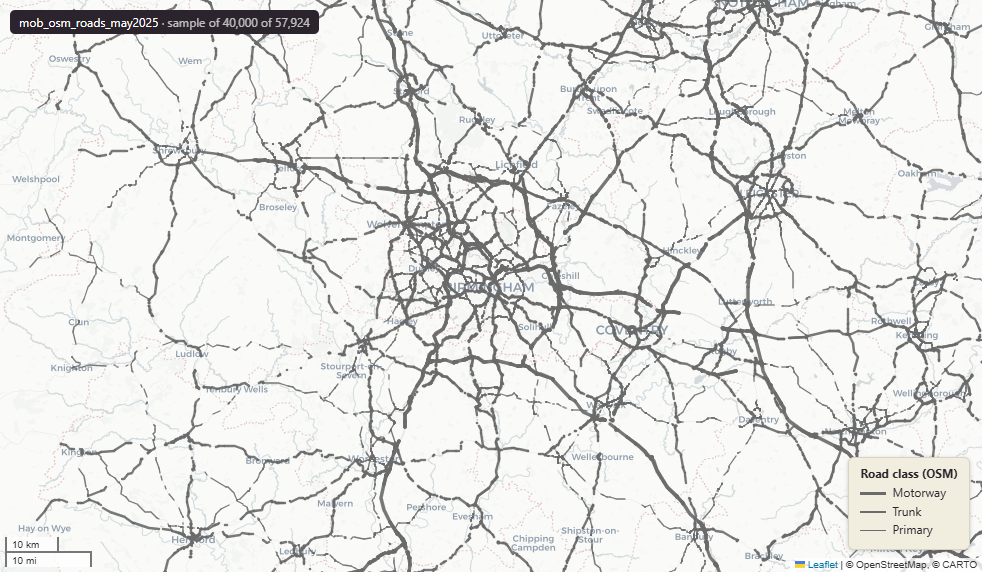
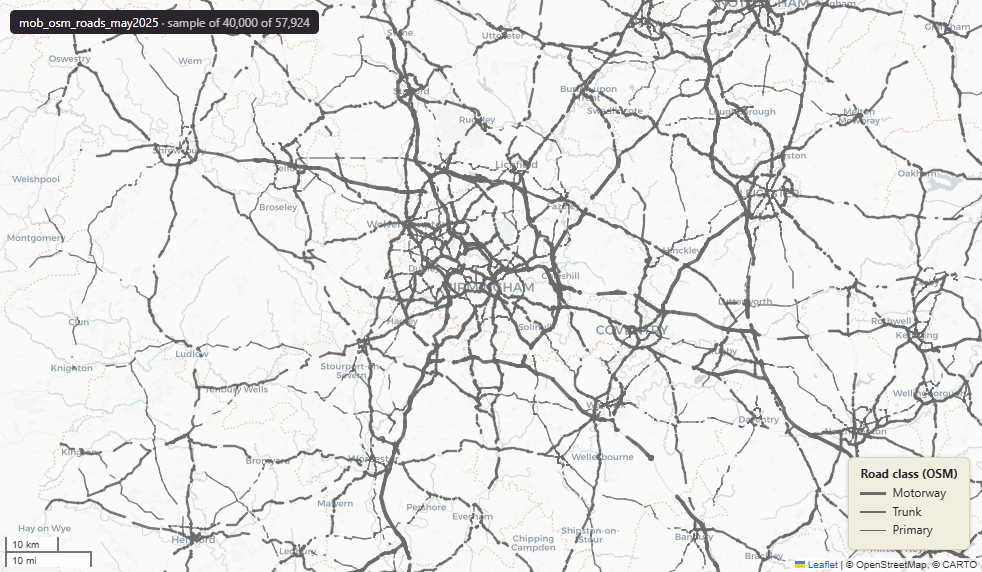
Deployed 51ef6e0 with MkDocs version: 1.6.1

diff --git a/UTL/utl_defra_permitted_waste_authorised_landfill/index.html b/UTL/utl_defra_permitted_waste_authorised_landfill/index.html
@@ -5222,6 +5222,7 @@
 
 <h1 id="defra-department-for-environment-food-and-rural-affairs-environment-agency-permitted-waste-sites-authorised-landfill-site-boundaries-england">Defra - Department for Environment, Food and Rural Affairs — Environment Agency Permitted Waste Sites, Authorised Landfill Site Boundaries (England)<a class="headerlink" href="#defra-department-for-environment-food-and-rural-affairs-environment-agency-permitted-waste-sites-authorised-landfill-site-boundaries-england" title="Permanent link">&para;</a></h1>
 <p><code>utl_defra_permitted_waste_authorised_landfill</code></p>
+<p><img src="../../maps/utl_defra_permitted_waste_authorised_landfill.png" alt="Styling preview of utl_defra_permitted_waste_authorised_landfill" loading="lazy" style="width:100%;border:1px solid #d9d3c4;border-radius:8px;margin:6px 0 4px;"></p>
 <p><a href="http://localhost:7800/?layer=uk_baseline.utl_defra_permitted_waste_authorised_landfill" target="_blank" rel="noopener">Open in the Dashboard &#8599;</a> <span style="opacity:.6;font-size:.85em;">(start your local Dashboard first)</span></p>
 <p><strong>SOURCE</strong></p>
 <ul>

diff --git a/UTL/utl_nationalgas_pipeline/index.html b/UTL/utl_nationalgas_pipeline/index.html
@@ -5222,6 +5222,7 @@
 
 <h1 id="national-gas-national-transmission-system-nts-gas-transmission-pipelines-great-britain">National Gas - National Transmission System (NTS) gas transmission pipelines, Great Britain<a class="headerlink" href="#national-gas-national-transmission-system-nts-gas-transmission-pipelines-great-britain" title="Permanent link">&para;</a></h1>
 <p><code>utl_nationalgas_pipeline</code></p>
+<p><img src="../../maps/utl_nationalgas_pipeline.png" alt="Styling preview of utl_nationalgas_pipeline" loading="lazy" style="width:100%;border:1px solid #d9d3c4;border-radius:8px;margin:6px 0 4px;"></p>
 <p><a href="http://localhost:7800/?layer=uk_baseline.utl_nationalgas_pipeline" target="_blank" rel="noopener">Open in the Dashboard &#8599;</a> <span style="opacity:.6;font-size:.85em;">(start your local Dashboard first)</span></p>
 <p><strong>SOURCE</strong></p>
 <ul>

diff --git a/UTL/utl_nationalgrid_cables/index.html b/UTL/utl_nationalgrid_cables/index.html
@@ -5222,6 +5222,7 @@
 
 <h1 id="national-grid-electricity-transmission-underground-cables-england-and-wales">National Grid Electricity Transmission - underground cables, England and Wales<a class="headerlink" href="#national-grid-electricity-transmission-underground-cables-england-and-wales" title="Permanent link">&para;</a></h1>
 <p><code>utl_nationalgrid_cables</code></p>
+<p><img src="../../maps/utl_nationalgrid_cables.png" alt="Styling preview of utl_nationalgrid_cables" loading="lazy" style="width:100%;border:1px solid #d9d3c4;border-radius:8px;margin:6px 0 4px;"></p>
 <p><a href="http://localhost:7800/?layer=uk_baseline.utl_nationalgrid_cables" target="_blank" rel="noopener">Open in the Dashboard &#8599;</a> <span style="opacity:.6;font-size:.85em;">(start your local Dashboard first)</span></p>
 <p><strong>SOURCE</strong></p>
 <ul>

diff --git a/UTL/utl_nationalgrid_over_head_line/index.html b/UTL/utl_nationalgrid_over_head_line/index.html
@@ -5222,6 +5222,7 @@
 
 <h1 id="national-grid-electricity-transmission-overhead-lines-england-and-wales">National Grid Electricity Transmission - overhead lines, England and Wales<a class="headerlink" href="#national-grid-electricity-transmission-overhead-lines-england-and-wales" title="Permanent link">&para;</a></h1>
 <p><code>utl_nationalgrid_over_head_line</code></p>
+<p><img src="../../maps/utl_nationalgrid_over_head_line.png" alt="Styling preview of utl_nationalgrid_over_head_line" loading="lazy" style="width:100%;border:1px solid #d9d3c4;border-radius:8px;margin:6px 0 4px;"></p>
 <p><a href="http://localhost:7800/?layer=uk_baseline.utl_nationalgrid_over_head_line" target="_blank" rel="noopener">Open in the Dashboard &#8599;</a> <span style="opacity:.6;font-size:.85em;">(start your local Dashboard first)</span></p>
 <p><strong>SOURCE</strong></p>
 <ul>

diff --git a/UTL/utl_nationalgrid_substation_site/index.html b/UTL/utl_nationalgrid_substation_site/index.html
@@ -5222,6 +5222,7 @@
 
 <h1 id="national-grid-electricity-transmission-substation-sites-england-and-wales">National Grid Electricity Transmission - substation sites, England and Wales<a class="headerlink" href="#national-grid-electricity-transmission-substation-sites-england-and-wales" title="Permanent link">&para;</a></h1>
 <p><code>utl_nationalgrid_substation_site</code></p>
+<p><img src="../../maps/utl_nationalgrid_substation_site.png" alt="Styling preview of utl_nationalgrid_substation_site" loading="lazy" style="width:100%;border:1px solid #d9d3c4;border-radius:8px;margin:6px 0 4px;"></p>
 <p><a href="http://localhost:7800/?layer=uk_baseline.utl_nationalgrid_substation_site" target="_blank" rel="noopener">Open in the Dashboard &#8599;</a> <span style="opacity:.6;font-size:.85em;">(start your local Dashboard first)</span></p>
 <p><strong>SOURCE</strong></p>
 <ul>

diff --git a/UTL/utl_nationalgrid_towers/index.html b/UTL/utl_nationalgrid_towers/index.html
@@ -5222,6 +5222,7 @@
 
 <h1 id="national-grid-electricity-transmission-transmission-towers-pylons-england-and-wales">National Grid Electricity Transmission - transmission towers (pylons), England and Wales<a class="headerlink" href="#national-grid-electricity-transmission-transmission-towers-pylons-england-and-wales" title="Permanent link">&para;</a></h1>
 <p><code>utl_nationalgrid_towers</code></p>
+<p><img src="../../maps/utl_nationalgrid_towers.png" alt="Styling preview of utl_nationalgrid_towers" loading="lazy" style="width:100%;border:1px solid #d9d3c4;border-radius:8px;margin:6px 0 4px;"></p>
 <p><a href="http://localhost:7800/?layer=uk_baseline.utl_nationalgrid_towers" target="_blank" rel="noopener">Open in the Dashboard &#8599;</a> <span style="opacity:.6;font-size:.85em;">(start your local Dashboard first)</span></p>
 <p><strong>SOURCE</strong></p>
 <ul>

diff --git a/UTL/utl_os_electricity_transmission_line/index.html b/UTL/utl_os_electricity_transmission_line/index.html
@@ -5220,6 +5220,7 @@
 
 <h1 id="ordnance-survey-os-openmap-local-electricity-transmission-lines-for-great-britain">Ordnance Survey OS OpenMap Local - Electricity Transmission Lines for Great Britain<a class="headerlink" href="#ordnance-survey-os-openmap-local-electricity-transmission-lines-for-great-britain" title="Permanent link">&para;</a></h1>
 <p><code>utl_os_electricity_transmission_line</code></p>
+<p><img src="../../maps/utl_os_electricity_transmission_line.png" alt="Styling preview of utl_os_electricity_transmission_line" loading="lazy" style="width:100%;border:1px solid #d9d3c4;border-radius:8px;margin:6px 0 4px;"></p>
 <p><a href="http://localhost:7800/?layer=uk_baseline.utl_os_electricity_transmission_line" target="_blank" rel="noopener">Open in the Dashboard &#8599;</a> <span style="opacity:.6;font-size:.85em;">(start your local Dashboard first)</span></p>
 <p><strong>SOURCE</strong></p>
 <ul>